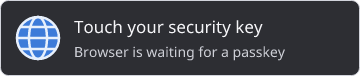
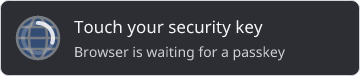
docs: describe the popup state overlay
Documents the overlay and popup.animations, adds animated GIFs captured by scripts/screenshots.sh, and refreshes the screenshots.

Changed region(s): [[0.0306, 0.2105, 0.1833, 0.7895]]

diff --git a/docs/guide/configuration.md b/docs/guide/configuration.md
@@ -21,6 +21,7 @@ show_delay_ms = 0
 modal = false
 modal_dim = 0.4
 modal_dismiss = true
+animations = true
 
 [notification]
 urgency = "critical"
@@ -89,6 +90,7 @@ extend_skip = []
 | `modal` | `true`, `false` | `false` |
 | `modal_dim` | 0.0 to 1.0 | 0.4 |
 | `modal_dismiss` | `true`, `false` | `true` |
+| `animations` | `true`, `false` | `true` |
 
 ![A popup in the top-right corner of an output, with position = "top-right"](/screenshots/corner.png)
 
@@ -101,6 +103,24 @@ Popups are drawn at the scale of the output they are on: at fractional scales su
 Several popups on one output stack in the order the requests started: away from the screen edge, or vertically around the centre with `center`.
 
 ![Two stacked popups, one from the browser and one from claude in a terminal](/screenshots/stacked.png)
+
+### State overlay
+
+The application icon is drawn dimmed, with the request's state centred over it. A popup without an icon shows the state alone in the icon's place.
+
+- While the request waits for a touch, a spinner turns over the icon.
+- When the operation ends, the spinner gives way to a mark on a coloured disc: a check on green after a touch, a cross on red after a cancel or failure, and a clock on amber after a timeout.
+
+  ![A popup whose spinner turns over the dimmed browser icon, then gives way to a check on a green disc after a touch](/screenshots/anim-touched.gif)
+
+  ![A popup whose spinner gives way to a cross on a red disc after a cancel](/screenshots/anim-cancelled.gif)
+
+  ![A popup whose spinner gives way to a clock on an amber disc after a timeout](/screenshots/anim-timed-out.gif)
+- When a client retries, the mark gives way to the spinner again.
+
+  ![A popup whose spinner gives way to the timeout clock, turns again when the client retries, and gives way to the touch check](/screenshots/anim-retry.gif)
+
+Each change fades and grows into place over 250 ms. With `animations = false`, or when the desktop asks for reduced motion, the spinner stands still and each mark appears at once. touchcue reads the desktop preference once at start, through the XDG desktop portal: `reduced-motion` = 1 in `org.freedesktop.appearance`, or `enable-animations` = false in `org.gnome.desktop.interface` where the portal provides it. Without a portal, motion is not reduced.
 
 ### Outputs
 
@@ -115,7 +135,7 @@ Several popups on one output stack in the order the requests started: away from 
 
 ### Modal popups
 
-With `modal = true`, a popup that waits for a touch also blocks clicks: on each of its outputs, a full-screen layer behind the popup takes every click. The keyboard is never grabbed, so typing still goes to the focused window. The overlay is removed when no request on that output waits any more, and after 120 seconds at most, even when requests still wait; requests that start while it is shown do not extend it. After those 120 seconds, that output gets no new overlay for 30 seconds.
+With `modal = true`, a popup that waits for a touch also blocks clicks: on each of its outputs, a full-screen layer behind the popup takes every click. The keyboard is never grabbed. Keyboard input remains with the focused window. The overlay is removed when no request on that output waits any more, and after 120 seconds at most, even when requests still wait; requests that start while it is shown do not extend it. After those 120 seconds, that output gets no new overlay for 30 seconds.
 
 ![A modal popup over a dimmed output](/screenshots/modal-dim.png)
 
@@ -125,7 +145,7 @@ With `modal = true`, a popup that waits for a touch also blocks clicks: on each 
 - With `modal_dismiss = true`, a click or touch on the overlay hides the popups and overlays of the requests on it. Only the display is hidden: the request keeps waiting for a touch. The next request on that output gets a new overlay right away. Only the left, middle and right buttons dismiss; scrolling and side buttons do not.
 - With `modal_dismiss = false`, requests that follow each other can keep an output dimmed for longer than 120 seconds: the limit applies to each overlay, and a new request gets a new overlay once the previous one ended, or 30 seconds after it reached the limit. The keyboard keeps working throughout.
 
-On X11 the overlay is an input-only window that blocks clicks without dimming, so `modal_dim` has no effect there. On Wayland the overlay is on the layer-shell overlay layer, above windows and panels.
+On X11 the overlay blocks clicks without dimming; `modal_dim` has no effect. On Wayland the overlay is on the layer-shell overlay layer, above windows and panels.
 
 ## `[notification]`
 
@@ -165,13 +185,13 @@ Without `theme`, `touchcue run` detects the theme once at start, from the first 
 
 The default body names the requester and its application through [`requester.label`](./placeholders#requester): `claude in Kitty is waiting for a GPG signature`, or `Firefox is waiting for a passkey` when the application asks itself. [`request.action`](./placeholders#values) words what the request waits for.
 
-Templates use Jinja syntax with [placeholders](./placeholders#template-syntax). A template that fails while rendering is replaced by the next of: the matching rule's template, the `[templates]` template, the default above, and an empty text. A request that ended without a touch keeps its prompt briefly, with `(cancelled)` or `(timed out)` appended to the body.
+Templates use Jinja syntax with [placeholders](./placeholders#template-syntax). A template that fails while rendering is replaced by the next of: the matching rule's template, the `[templates]` template, the default above, and an empty text. A request that ended without a touch keeps its prompt briefly: the popup shows the outcome in its [state overlay](#state-overlay), and a notification appends `(cancelled)` or `(timed out)` to the body.
 
 The title wraps to at most two lines and the body to at most six; longer text ends with an ellipsis:
 
 ![A popup whose long title and body wrap and end with an ellipsis](/screenshots/long-text.png)
 
-![Three popups: a touched request, which keeps its text, a cancelled one and a timed-out one](/screenshots/outcomes.png)
+![Three popups with the same text: a touched request with a check, a cancelled one with a cross and a timed-out one with a clock](/screenshots/outcomes.png)
 
 ## `[[rules]]`
 
@@ -201,7 +221,7 @@ suppress = true
 | `icon` | path or name | Icon shown instead of the application's icon: an absolute path, a path starting with `~/` in your home directory, or an icon name. |
 | `suppress` | boolean | Shows nothing for matching requests. IPC still publishes them. Default `false`. |
 
-An `icon` path must name a PNG or SVG file. A `~/` path must stay in your home directory: an absolute rest, as in `~//etc`, or a `..` part is a configuration error. A value without `/`, such as `utilities-terminal`, is an icon name, looked up in the [icon theme](#icons) like application icons. Other relative paths are a configuration error. The icon is looked up each time a prompt is shown or changes, within 0.5 s, so an icon path may name a file created after the daemon starts. An icon name that was not found stays unfound until the daemon restarts or more than 512 names have been looked up, as described under [`[icons]`](#icons). When no file is found in time, the prompt shows the application's icon and the daemon logs a warning.
+An `icon` path must name a PNG or SVG file. A `~/` path must stay in your home directory: an absolute rest, as in `~//etc`, or a `..` part is a configuration error. A value without `/`, such as `utilities-terminal`, is an icon name, looked up in the [icon theme](#icons) like application icons. Other relative paths are a configuration error. Icon paths are looked up whenever a prompt is shown or changes, within 0.5 s. Files created after startup are eligible. An icon name that was not found stays unfound until the daemon restarts or more than 512 names have been looked up, as described under [`[icons]`](#icons). When no file is found in time, the prompt shows the application's icon and the daemon logs a warning.
 
 ![A popup with a rule's title and key icon below a popup with the application's icon](/screenshots/rule-icon.png)
 
@@ -223,7 +243,7 @@ concurrency = 4
 | Key | Type | Meaning |
 | --- | --- | --- |
 | `on` | list of event names | Events that run the command. Required and non-empty. An unknown name is an error. |
-| `match` | table of strings | Placeholder names and values that must all be equal, as in `[[rules]]`. Optional; without it, every listed event runs the command. Device events only have `device.*` values and daemon events none, so a `match` on other names never runs for them. `match` only selects events: application and process names are set by the processes themselves. |
+| `match` | table of strings | Placeholder names and values that must all be equal, as in `[[rules]]`. Optional; without it, every listed event runs the command. Device events only have `device.*` values and daemon events none. A match requiring values absent from the event does not run. `match` only selects events: application and process names are set by the processes themselves. |
 | `command` | list of strings | The program and its arguments, run without a shell. Required, and the program must not be empty. |
 | `timeout_ms` | 1 to 600000 | Time the command may run before it is ended. Default 5000. Not allowed with `until`. |
 | `concurrency` | 1 to 32 | Most runs of this hook at once. Default 4. Not allowed with `until`. |
@@ -241,7 +261,7 @@ concurrency = 4
 | `keepalive_timeout_ms` | 100 to 600000 | 1500 |
 | `retry_window_ms` | 1 to 600000 | 1000 |
 
-`keepalive_timeout_ms` is how long a FIDO request survives without a keepalive from the key. `retry_window_ms` is how long an ended operation waits for the client to retry it, so a retry continues the same prompt.
+`keepalive_timeout_ms` is how long a FIDO request survives without a keepalive from the key. `retry_window_ms` is how long an ended operation waits for a client retry. A client retry during that interval continues the same prompt.
 
 ## `[sources.gpg]`
 
@@ -265,7 +285,7 @@ These lists name the processes passed over when looking for the [requester](./pl
 extend_skip = ["nvim"]
 ```
 
-An entry is a name, compared exactly and case-sensitively with the process's `comm`, or with its executable's file name when `comm` cannot be read, or a prefix ending in `*`, such as `tmux*`. The kernel cuts `comm` to 15 bytes, so match longer names with a prefix. An invalid entry is reported with its location in the file. `touchcue check` prints the effective list; copy the list after `skip =` into the configuration to start from it.
+An entry is a name, compared exactly and case-sensitively with the process's `comm`, or with its executable's file name when `comm` cannot be read, or a prefix ending in `*`, such as `tmux*`. The kernel truncates `comm` to 15 bytes. Use a prefix entry for longer names. An invalid entry is reported with its location in the file. `touchcue check` prints the effective list; copy the list after `skip =` into the configuration to start from it.
 
 ## IPC
 

diff --git a/CONTRIBUTING.md b/CONTRIBUTING.md
@@ -1,10 +1,10 @@
 # Contributing
 
-Thanks for helping. touchcue is in early development, so the codebase and the plan change quickly.
+Thanks for helping. touchcue is in early development. The codebase and plan change frequently.
 
 ## Before you start
 
-Open an issue or a [discussion](https://github.com/theaifam5/touchcue/discussions) before working on a non-trivial change, so the approach can be agreed first.
+Open an issue or a [discussion](https://github.com/theaifam5/touchcue/discussions) and agree on the approach before starting a non-trivial change.
 
 ## Development setup
 
@@ -58,9 +58,9 @@ mise run screenshots stacked modal-dim  # only these
 mise run screenshots --dry-run          # print the plan; start nothing
 ```
 
-The task builds the `screenshots` example of `touchcue-ui` (`crates/touchcue-ui/examples/screenshots.rs`), which holds each scenario's configuration and prompts; `cargo run -p touchcue-ui --example screenshots -- --list` names them. `scripts/screenshots.sh` then starts a nested Hyprland with its own Wayland socket and its own D-Bus session bus, captures each scenario with `grim`, and stops everything again. Each nested output is a window on your desktop; when your desktop is Hyprland, the script floats these windows and resizes them to 1280x720 so every run gives images of the same size. Nothing else is drawn on your desktop. The script sets `HYPRLAND_NO_SD_VARS=1` so the nested Hyprland does not export its variables to the systemd user environment, and it uses a private bus; to check, compare `systemctl --user show-environment` before and after a run. Pass `--headless` to capture 1280x720 headless outputs instead, with no windows; this fails on drivers that cannot allocate buffers for headless outputs, such as NVIDIA. Working files go to `target/screenshots/` and are kept there when a run fails.
+The task builds the `screenshots` example of `touchcue-ui` (`crates/touchcue-ui/examples/screenshots.rs`), which holds each scenario's configuration and prompts; `cargo run -p touchcue-ui --example screenshots -- --list` names them. `scripts/screenshots.sh` starts a nested Hyprland with its own Wayland socket and D-Bus session bus, captures still scenarios as PNG images and `anim-*` scenarios as animated GIFs, and stops its processes. Each nested output is a window on your desktop. On a Hyprland host, the script floats the nested windows and resizes them to 1280×720. Nothing else is drawn on your desktop. The script sets `HYPRLAND_NO_SD_VARS=1`; the nested compositor does not export its variables to the systemd user environment. It uses a private bus; compare `systemctl --user show-environment` before and after a run to check. Pass `--headless` to capture 1280×720 headless outputs instead, with no windows; this fails on drivers that cannot allocate buffers for headless outputs, such as NVIDIA. Working files go to `target/screenshots/` and are kept there when a run fails.
 
-Requirements: a running Wayland session, and Hyprland 0.56 (Lua configuration) with `hyprctl`, `dbus-run-session`, `grim`, `jq` and ImageMagick (`magick`) from your system packages; `mako` and `makoctl` for the notification scenario. The script checks for them and is not part of the pinned toolchain.
+Requirements: a running Wayland session, and Hyprland 0.56 (Lua configuration) with `hyprctl`, `dbus-run-session`, `grim`, `jq` and ImageMagick (`magick`) from your system packages; `mako` and `makoctl` for the notification scenario; `ffmpeg`, coreutils `timeout`, and a `date` supporting nanoseconds (`%N`) for GIF scenarios. GIF frame capture is bounded by `GIF_LIMIT` (30 seconds); encoding runs separately after capture. The script checks its prerequisites and is not part of the pinned toolchain.
 
 ## Commits and pull requests
 

diff --git a/docs/guide/hooks.md b/docs/guide/hooks.md
@@ -35,15 +35,15 @@ Hooks make the configuration file run commands as your user. Keep it writable on
 
 One change can fire several events. They fire in this order: `started`, `updated` or `ended`, then `revived`, `waiting` or `lingering`, then `touched`, `cancelled`, `failed` or `timed_out`. For example, a new request fires `started`, then `waiting`.
 
-`touched` fires when the request ends. `cancelled`, `failed` and `timed_out` fire as soon as the operation ends, together with `lingering`, and are not repeated by `ended`. A request that is revived after `cancelled` waits again, so it can end with `touched` later.
+`touched` fires when the request ends. `cancelled`, `failed` and `timed_out` fire as soon as the operation ends, together with `lingering`, and are not repeated by `ended`. A revived cancelled request returns to waiting and may later end with `touched`.
 
 The device events only come from FIDO keys, while `[sources.fido]` is enabled. The `device_added` events of keys present at startup arrive after `daemon_started`. In the rare case that the kernel drops device notifications, touchcue fires `device_removed` and `device_added` again for every key.
 
-`match` selects which events run a hook; it does not prove anything. Application and process names are set by the processes themselves, so any program can claim to be `ssh` or `firefox`.
+`match` selects which events run a hook; it does not prove anything. Application and process names are self-reported and are not authenticated identities.
 
 ## Environment
 
-A command gets touchcue's own environment, so `PATH`, `WAYLAND_DISPLAY` and `DBUS_SESSION_BUS_ADDRESS` reach it, plus these variables:
+Commands inherit touchcue's environment, including `PATH`, `WAYLAND_DISPLAY`, and `DBUS_SESSION_BUS_ADDRESS`, plus the following variables.
 
 - `TOUCHCUE_EVENT` is the event name, such as `started`.
 - Each [placeholder](./placeholders) that touchcue publishes becomes a variable named `TOUCHCUE_` followed by the placeholder name in upper case with dots replaced by underscores. For example, `app.name` is `TOUCHCUE_APP_NAME` and `request.state` is `TOUCHCUE_REQUEST_STATE`.
@@ -113,7 +113,7 @@ A process that exits before its request ends, with any exit status, or that cann
 A process gets the [environment](#environment) of other hooks, with these differences:
 
 - `TOUCHCUE_EVENT` is `show` for the first process of a request, and `update` for a process started again after a change or after the prompt was suppressed.
-- `TOUCHCUE_TITLE` and `TOUCHCUE_BODY` are the prompt title and body exactly as the popup and the notification show them, after rules, with the same cleaning and length limit as the other values. While a request lingers after it was cancelled or timed out, the body ends with `(cancelled)` or `(timed out)`, as on the popup; `TOUCHCUE_REQUEST_STATE` holds the state for a script that words the outcome itself. They are rendered from your own templates, so they can hold placeholders that are not published, such as a command line, when your templates use them.
+- `TOUCHCUE_TITLE` and `TOUCHCUE_BODY` are the prompt title and body exactly as the notification shows them, after rules, with the same cleaning and length limit as the other values. While a request lingers after it was cancelled or timed out, the body ends with `(cancelled)` or `(timed out)`, as in the notification; `TOUCHCUE_REQUEST_STATE` holds the state for a script that words the outcome itself. These values use the configured templates and may include unpublished placeholders, including command lines.
 
 Other hooks get no `TOUCHCUE_TITLE` or `TOUCHCUE_BODY`: they also run for suppressed and ended requests, which have no prompt.
 

diff --git a/docs/architecture.md b/docs/architecture.md
@@ -21,7 +21,7 @@ The scdaemon wrapper and `touchcue askpass` are separate touchcue processes star
 
 ## Request lifecycle
 
-A request starts in `waiting` and ends in exactly one of `touched`, `cancelled`, `failed` or `timed_out`. An ended operation lingers for `sources.fido.retry_window_ms`, so that a client retry continues the same request and the prompt can show the outcome, before the request ends.
+A request starts in `waiting` and ends in exactly one of `touched`, `cancelled`, `failed` or `timed_out`. An ended operation lingers for `sources.fido.retry_window_ms`. A retry during that interval continues the same request; the prompt displays the outcome during the interval.
 
 ```
 waiting -> touched | cancelled | failed | timed_out
@@ -31,7 +31,7 @@ waiting -> touched | cancelled | failed | timed_out
 
 A FIDO authenticator that waits for a touch sends CTAPHID `KEEPALIVE` (`0xBB`) frames with status `UPNEEDED` (`0x02`). touchcue tracks these per CTAPHID channel ID. A request ends on the final frame of the same channel ID, or when no keepalive arrives for `sources.fido.keepalive_timeout_ms` (1.5 s by default). CTAP2 status codes in the final frame tell a cancel (`0x2D`, `0x27`) or a timeout (`0x2F`, `0x3A`) apart from a touch. For U2F, a reply with status word `0x6985` (conditions not satisfied) means the key waits for a touch.
 
-Tracking per channel ID keeps the prompt steady: frames from other channels do not end or restart the request.
+Frames from other CTAPHID channel IDs do not end or restart the request.
 
 ## OpenPGP detection
 
@@ -45,4 +45,4 @@ For a FIDO request, the daemon scans `/proc` for the processes holding the devic
 - the requester, `requester`: walking from the application down to the client, the first process not on the skip list of shells, multiplexers, wrappers and service managers, and neither running the application's executable nor owned by another user;
 - the chain, `process.chain`: the names from the client up to the application.
 
-Each process's start time is read during the walk and checked again after its names are read, so a pid reused in between ends the walk. See [Placeholders](./guide/placeholders#requester) for the rules and their limits.
+The walk ends if a process's start time changes between its initial check and the check after reading its names. See [Placeholders](./guide/placeholders#requester) for the rules and their limits.

diff --git a/docs/guide/launchers.md b/docs/guide/launchers.md
@@ -1,6 +1,6 @@
 # Launchers
 
-touchcue can show the prompt through programs of your choice, such as rofi, fuzzel, `hyprctl notify` or a status bar script. touchcue contains no code for any of them: a [hook with `until = "ended"`](./hooks#hooks-that-last-for-a-request) runs the program for as long as a request lasts and gives it the prompt in `TOUCHCUE_TITLE` and `TOUCHCUE_BODY`, the text the popup shows, including `(cancelled)` or `(timed out)` while the prompt lingers, and on stdin a JSON line when the prompt is shown and when it goes away, and with `on_change = "stream"` one for every change in between. It runs on Linux.
+touchcue can show the prompt through programs of your choice, such as rofi, fuzzel, `hyprctl notify` or a status bar script. touchcue contains no code for any of them: a [hook with `until = "ended"`](./hooks#hooks-that-last-for-a-request) runs the program for as long as a request lasts and gives it the prompt in `TOUCHCUE_TITLE` and `TOUCHCUE_BODY`, the text the notification shows, including `(cancelled)` or `(timed out)` while the prompt lingers, and on stdin a JSON line when the prompt is shown and when it goes away, and with `on_change = "stream"` one for every change in between. It runs on Linux.
 
 ```toml
 [output]

diff --git a/README.md b/README.md
@@ -14,7 +14,7 @@ touchcue is a daemon and CLI. When a hardware authenticator waits for a physical
 
 ## touchcue and yubikey-touch-detector
 
-[yubikey-touch-detector](https://github.com/maximbaz/yubikey-touch-detector) by Maxim Baz is the established tool for this job and the inspiration for touchcue. touchcue takes a different approach in some areas and speaks the same socket protocol, so status bars and scripts written for yubikey-touch-detector keep working.
+[yubikey-touch-detector](https://github.com/maximbaz/yubikey-touch-detector) by Maxim Baz is the established tool for this job and the inspiration for touchcue. touchcue implements the yubikey-touch-detector socket protocol. Existing clients can use that interface.
 
 | | touchcue | yubikey-touch-detector |
 | --- | --- | --- |
